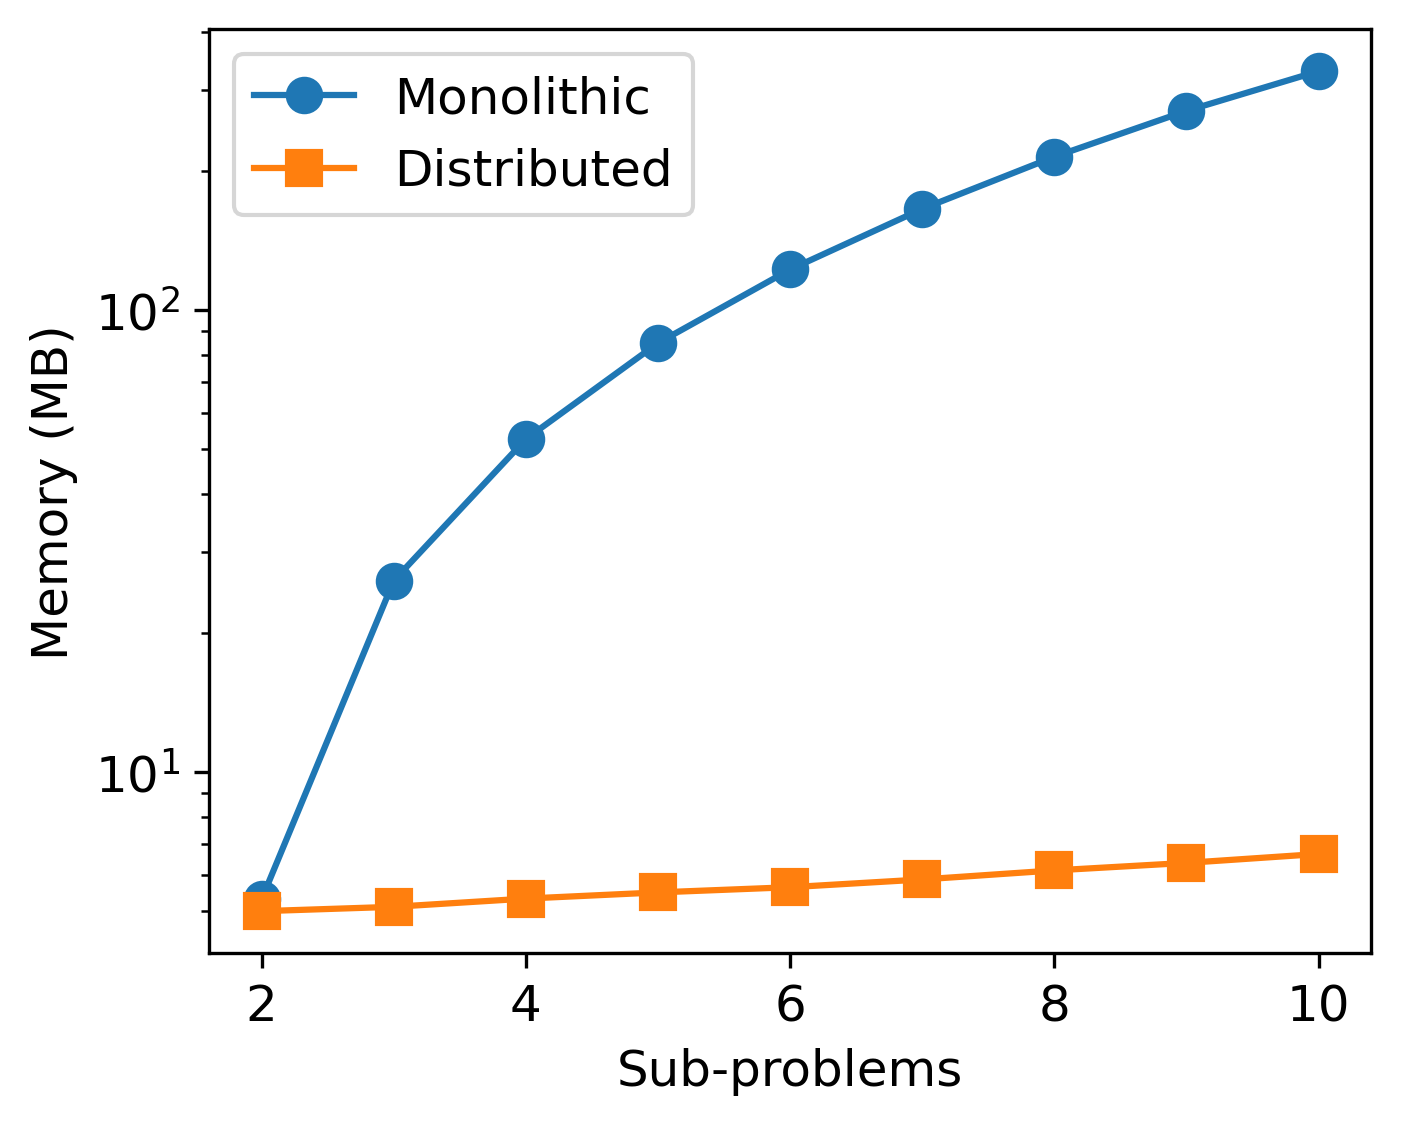
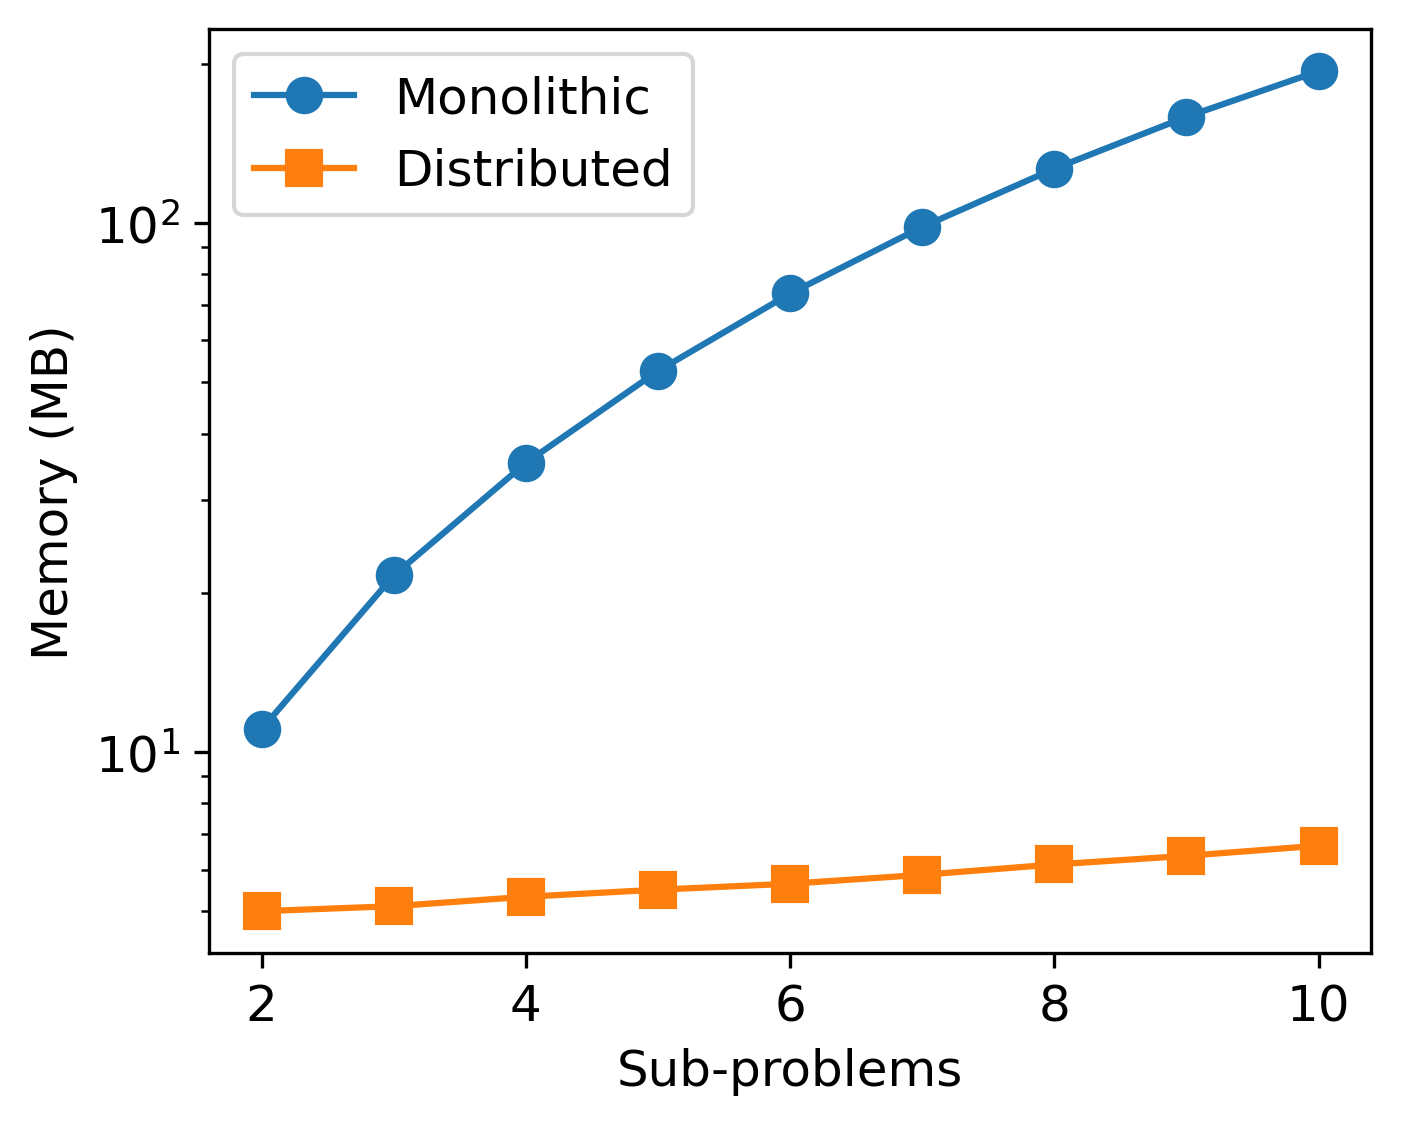
AL dev

diff --git a/relaxation/jax_monolithic_multi_point_cart_pole_slsqp.py b/relaxation/jax_monolithic_multi_point_cart_pole_slsqp.py
@@ -38,9 +38,9 @@ initial_state_10 = np.array([-3, np.pi, 0, 0])
 # initial_states = [initial_state_1, initial_state_2, initial_state_3, initial_state_4, initial_state_5]
 # initial_states = [initial_state_1, initial_state_2, initial_state_3, initial_state_4, initial_state_5, initial_state_6]
 # initial_states = [initial_state_1, initial_state_2, initial_state_3, initial_state_4, initial_state_5, initial_state_6, initial_state_7]
-initial_states = [initial_state_1, initial_state_2, initial_state_3, initial_state_4, initial_state_5, initial_state_6, initial_state_7, initial_state_8]
+# initial_states = [initial_state_1, initial_state_2, initial_state_3, initial_state_4, initial_state_5, initial_state_6, initial_state_7, initial_state_8]
 # initial_states = [initial_state_1, initial_state_2, initial_state_3, initial_state_4, initial_state_5, initial_state_6, initial_state_7, initial_state_8, initial_state_9]
-# initial_states = [initial_state_1, initial_state_2, initial_state_3, initial_state_4, initial_state_5, initial_state_6, initial_state_7, initial_state_8, initial_state_9, initial_state_10]
+initial_states = [initial_state_1, initial_state_2, initial_state_3, initial_state_4, initial_state_5, initial_state_6, initial_state_7, initial_state_8, initial_state_9, initial_state_10]
 
 
 N = len(initial_states)
@@ -207,7 +207,7 @@ jaxprob = JaxProblem(x0=x0, nc=nc, jax_obj=jax_obj, jax_con=jax_con,
 
 
 
-optimizer = SLSQP(jaxprob, solver_options={'maxiter': 500, 'ftol': 1e-7}, turn_off_outputs=True)
+optimizer = SLSQP(jaxprob, solver_options={'maxiter': 3000, 'ftol': 1e-7}, turn_off_outputs=True)
 optimizer.solve()
 optimizer.print_results()
 

diff --git a/relaxation/memory.py b/relaxation/memory.py
@@ -5,8 +5,8 @@ import matplotlib.pyplot as plt
 
 copies = np.array([2, 3, 4, 5, 6, 7, 8, 9, 10])
 
-monolithic_memory_csdl = np.array([53.302, 73.99, 100.646, 132.946, 170.566, 213.768, 262.973, 318.20, 377.307]) - 47.98 # (the 40 is the csdl cost...)
-monolithic_memory_jax = np.array([11.063, 21.581, 35.208, 52.54, 73.571, 98.296, ])
+# monolithic_memory_csdl = np.array([53.302, 73.99, 100.646, 132.946, 170.566, 213.768, 262.973, 318.20, 377.307]) - 47.98 # (the 40 is the csdl cost...)
+monolithic_memory_jax = np.array([11.063, 21.581, 35.208, 52.54, 73.571, 98.296, 126.656, 158.705, 193.573])
 
 distributed_memory = np.array([5.006, 5.116, 5.33, 5.497, 5.641, 5.864, 6.134, 6.368, 6.657])
 
@@ -16,7 +16,7 @@ distributed_memory = np.array([5.006, 5.116, 5.33, 5.497, 5.641, 5.864, 6.134, 6
 plt.figure(figsize=(5, 4))
 plt.rcParams.update({'font.size': 12})
 
-plt.plot(copies, monolithic_memory_csdl, label='Monolithic', marker='o', markersize=8)
+plt.plot(copies, monolithic_memory_jax, label='Monolithic', marker='o', markersize=8)
 plt.plot(copies, distributed_memory, label='Distributed', marker='s', markersize=8)
 plt.xlabel('Sub-problems')
 plt.ylabel('Memory (MB)')
